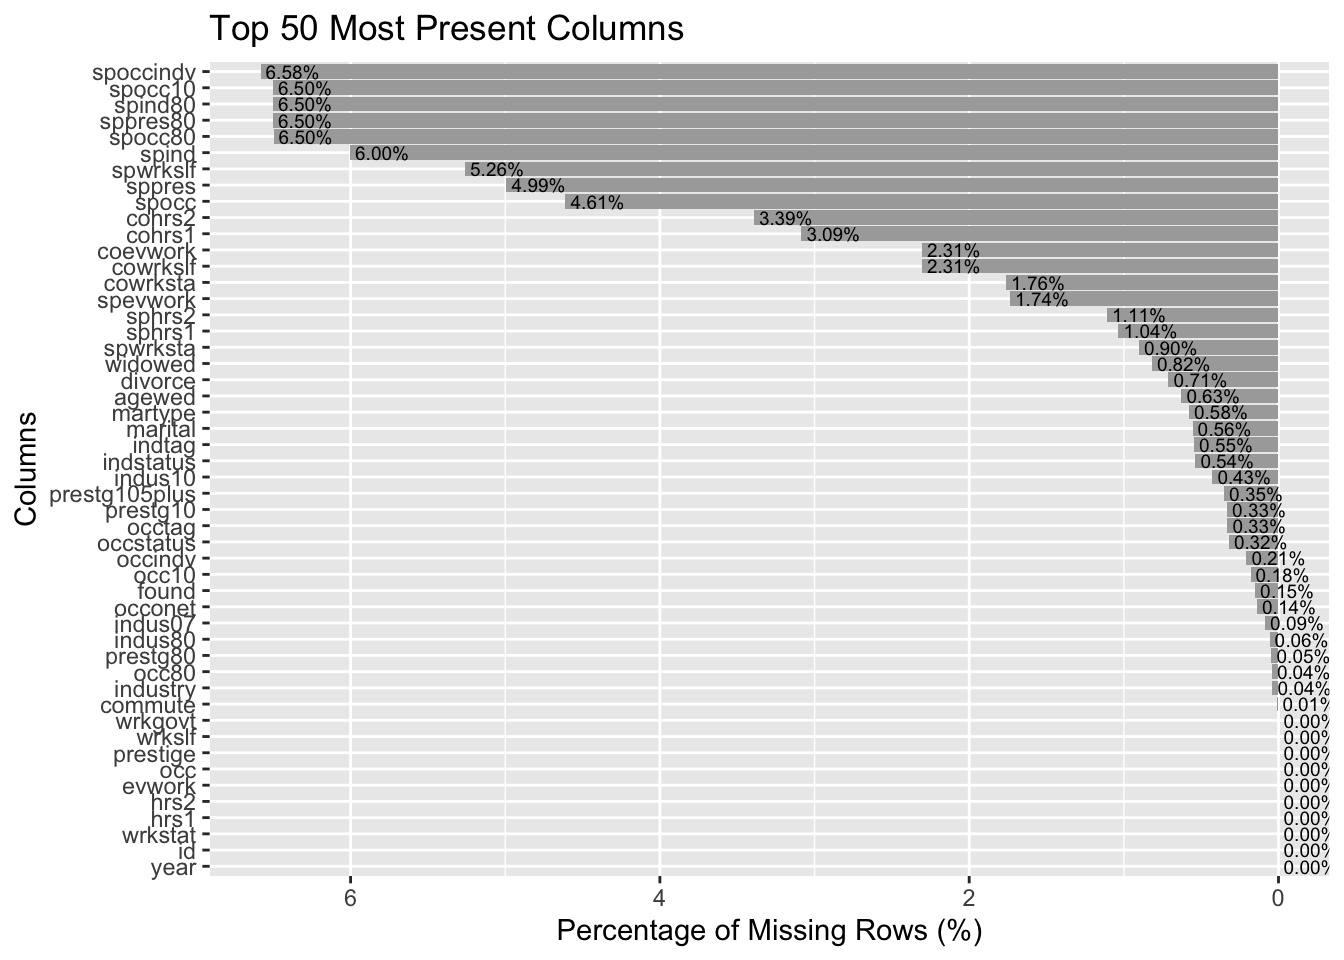
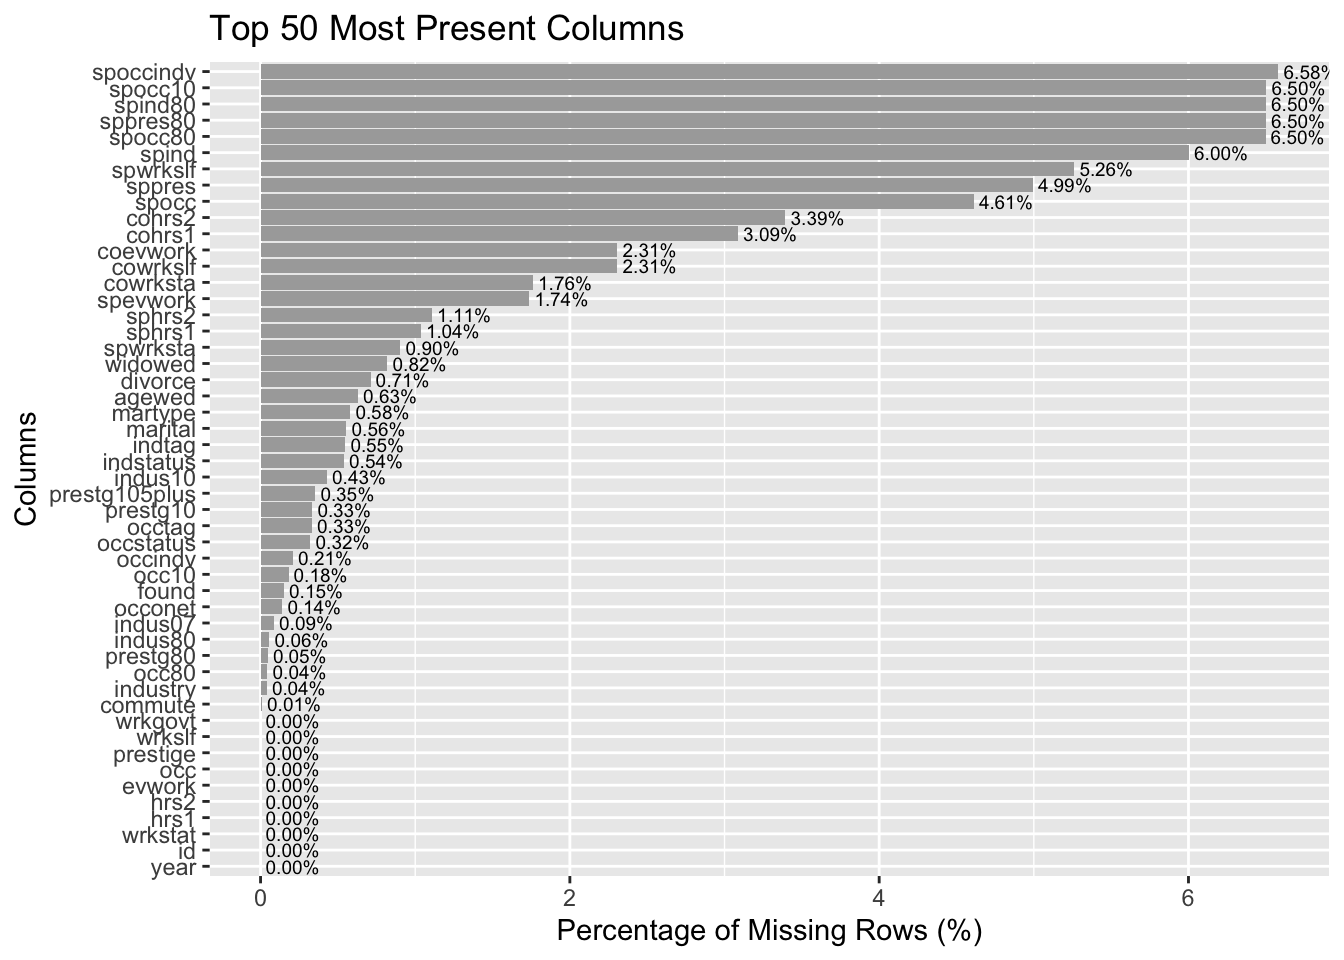
render book with latest

Changed region(s): [[0.1875, 0.0625, 1.0, 0.9375]]

diff --git a/docs/data.html b/docs/data.html
@@ -290,18 +290,17 @@ pre > code.sourceCode > span > a:first-child::before { text-decoration: underlin
 <span id="cb2-29"><a href="#cb2-29" aria-hidden="true" tabindex="-1"></a><span class="fu">ggplot</span>(top_50_present, <span class="fu">aes</span>(<span class="at">x =</span> column, <span class="at">y =</span> missing_percentage)) <span class="sc">+</span></span>
 <span id="cb2-30"><a href="#cb2-30" aria-hidden="true" tabindex="-1"></a>  <span class="fu">geom_bar</span>(<span class="at">stat =</span> <span class="st">"identity"</span>, <span class="at">fill =</span> <span class="st">"darkgrey"</span>) <span class="sc">+</span></span>
 <span id="cb2-31"><a href="#cb2-31" aria-hidden="true" tabindex="-1"></a>  <span class="fu">coord_flip</span>() <span class="sc">+</span></span>
-<span id="cb2-32"><a href="#cb2-32" aria-hidden="true" tabindex="-1"></a>  <span class="fu">scale_y_reverse</span>() <span class="sc">+</span></span>
-<span id="cb2-33"><a href="#cb2-33" aria-hidden="true" tabindex="-1"></a>  <span class="fu">labs</span>(</span>
-<span id="cb2-34"><a href="#cb2-34" aria-hidden="true" tabindex="-1"></a>    <span class="at">title =</span> <span class="st">'Top 50 Most Present Columns'</span>,</span>
-<span id="cb2-35"><a href="#cb2-35" aria-hidden="true" tabindex="-1"></a>    <span class="at">x =</span> <span class="st">"Columns"</span>,</span>
-<span id="cb2-36"><a href="#cb2-36" aria-hidden="true" tabindex="-1"></a>    <span class="at">y =</span> <span class="st">"Percentage of Missing Rows (%)"</span></span>
-<span id="cb2-37"><a href="#cb2-37" aria-hidden="true" tabindex="-1"></a>  ) <span class="sc">+</span></span>
-<span id="cb2-38"><a href="#cb2-38" aria-hidden="true" tabindex="-1"></a>  <span class="fu">geom_text</span>(</span>
-<span id="cb2-39"><a href="#cb2-39" aria-hidden="true" tabindex="-1"></a>    <span class="fu">aes</span>(<span class="at">label =</span> <span class="fu">sprintf</span>(<span class="st">"%.2f%%"</span>, missing_percentage)), </span>
-<span id="cb2-40"><a href="#cb2-40" aria-hidden="true" tabindex="-1"></a>    <span class="at">position =</span> <span class="fu">position_dodge</span>(<span class="at">width =</span> <span class="fl">0.9</span>),</span>
-<span id="cb2-41"><a href="#cb2-41" aria-hidden="true" tabindex="-1"></a>    <span class="at">hjust =</span> <span class="sc">-</span><span class="fl">0.1</span>,</span>
-<span id="cb2-42"><a href="#cb2-42" aria-hidden="true" tabindex="-1"></a>    <span class="at">size =</span> <span class="fl">2.5</span></span>
-<span id="cb2-43"><a href="#cb2-43" aria-hidden="true" tabindex="-1"></a>  )</span></code><button title="Copy to Clipboard" class="code-copy-button"><i class="bi"></i></button></pre></div>
+<span id="cb2-32"><a href="#cb2-32" aria-hidden="true" tabindex="-1"></a>  <span class="fu">labs</span>(</span>
+<span id="cb2-33"><a href="#cb2-33" aria-hidden="true" tabindex="-1"></a>    <span class="at">title =</span> <span class="st">'Top 50 Most Present Columns'</span>,</span>
+<span id="cb2-34"><a href="#cb2-34" aria-hidden="true" tabindex="-1"></a>    <span class="at">x =</span> <span class="st">"Columns"</span>,</span>
+<span id="cb2-35"><a href="#cb2-35" aria-hidden="true" tabindex="-1"></a>    <span class="at">y =</span> <span class="st">"Percentage of Missing Rows (%)"</span></span>
+<span id="cb2-36"><a href="#cb2-36" aria-hidden="true" tabindex="-1"></a>  ) <span class="sc">+</span></span>
+<span id="cb2-37"><a href="#cb2-37" aria-hidden="true" tabindex="-1"></a>  <span class="fu">geom_text</span>(</span>
+<span id="cb2-38"><a href="#cb2-38" aria-hidden="true" tabindex="-1"></a>    <span class="fu">aes</span>(<span class="at">label =</span> <span class="fu">sprintf</span>(<span class="st">"%.2f%%"</span>, missing_percentage)), </span>
+<span id="cb2-39"><a href="#cb2-39" aria-hidden="true" tabindex="-1"></a>    <span class="at">position =</span> <span class="fu">position_dodge</span>(<span class="at">width =</span> <span class="fl">0.9</span>),</span>
+<span id="cb2-40"><a href="#cb2-40" aria-hidden="true" tabindex="-1"></a>    <span class="at">hjust =</span> <span class="sc">-</span><span class="fl">0.1</span>,</span>
+<span id="cb2-41"><a href="#cb2-41" aria-hidden="true" tabindex="-1"></a>    <span class="at">size =</span> <span class="fl">2.5</span></span>
+<span id="cb2-42"><a href="#cb2-42" aria-hidden="true" tabindex="-1"></a>  )</span></code><button title="Copy to Clipboard" class="code-copy-button"><i class="bi"></i></button></pre></div>
 </details>
 <div class="cell-output-display">
 <div>
@@ -315,18 +314,17 @@ pre > code.sourceCode > span > a:first-child::before { text-decoration: underlin
 <div class="sourceCode cell-code" id="cb3"><pre class="sourceCode r code-with-copy"><code class="sourceCode r"><span id="cb3-1"><a href="#cb3-1" aria-hidden="true" tabindex="-1"></a><span class="fu">ggplot</span>(cp_df_2_sorted, <span class="fu">aes</span>(<span class="at">x =</span> column, <span class="at">y =</span> missing_percentage)) <span class="sc">+</span></span>
 <span id="cb3-2"><a href="#cb3-2" aria-hidden="true" tabindex="-1"></a>  <span class="fu">geom_bar</span>(<span class="at">stat =</span> <span class="st">"identity"</span>, <span class="at">fill =</span> <span class="st">"darkgrey"</span>) <span class="sc">+</span></span>
 <span id="cb3-3"><a href="#cb3-3" aria-hidden="true" tabindex="-1"></a>  <span class="fu">coord_flip</span>() <span class="sc">+</span></span>
-<span id="cb3-4"><a href="#cb3-4" aria-hidden="true" tabindex="-1"></a>  <span class="fu">scale_y_reverse</span>() <span class="sc">+</span></span>
-<span id="cb3-5"><a href="#cb3-5" aria-hidden="true" tabindex="-1"></a>  <span class="fu">labs</span>(</span>
-<span id="cb3-6"><a href="#cb3-6" aria-hidden="true" tabindex="-1"></a>    <span class="at">title =</span> <span class="st">'Variables of Interest %Missing'</span>,</span>
-<span id="cb3-7"><a href="#cb3-7" aria-hidden="true" tabindex="-1"></a>    <span class="at">x =</span> <span class="st">"Columns"</span>,</span>
-<span id="cb3-8"><a href="#cb3-8" aria-hidden="true" tabindex="-1"></a>    <span class="at">y =</span> <span class="st">"Percentage of Missing Rows (%)"</span></span>
-<span id="cb3-9"><a href="#cb3-9" aria-hidden="true" tabindex="-1"></a>  ) <span class="sc">+</span></span>
-<span id="cb3-10"><a href="#cb3-10" aria-hidden="true" tabindex="-1"></a>  <span class="fu">geom_text</span>(</span>
-<span id="cb3-11"><a href="#cb3-11" aria-hidden="true" tabindex="-1"></a>    <span class="fu">aes</span>(<span class="at">label =</span> <span class="fu">sprintf</span>(<span class="st">"%.2f%%"</span>, missing_percentage)), </span>
-<span id="cb3-12"><a href="#cb3-12" aria-hidden="true" tabindex="-1"></a>    <span class="at">position =</span> <span class="fu">position_dodge</span>(<span class="at">width =</span> <span class="fl">0.9</span>),</span>
-<span id="cb3-13"><a href="#cb3-13" aria-hidden="true" tabindex="-1"></a>    <span class="at">hjust =</span> <span class="sc">-</span><span class="fl">0.1</span>,</span>
-<span id="cb3-14"><a href="#cb3-14" aria-hidden="true" tabindex="-1"></a>    <span class="at">size =</span> <span class="fl">2.5</span></span>
-<span id="cb3-15"><a href="#cb3-15" aria-hidden="true" tabindex="-1"></a>  )</span></code><button title="Copy to Clipboard" class="code-copy-button"><i class="bi"></i></button></pre></div>
+<span id="cb3-4"><a href="#cb3-4" aria-hidden="true" tabindex="-1"></a>  <span class="fu">labs</span>(</span>
+<span id="cb3-5"><a href="#cb3-5" aria-hidden="true" tabindex="-1"></a>    <span class="at">title =</span> <span class="st">'Variables of Interest %Missing'</span>,</span>
+<span id="cb3-6"><a href="#cb3-6" aria-hidden="true" tabindex="-1"></a>    <span class="at">x =</span> <span class="st">"Columns"</span>,</span>
+<span id="cb3-7"><a href="#cb3-7" aria-hidden="true" tabindex="-1"></a>    <span class="at">y =</span> <span class="st">"Percentage of Missing Rows (%)"</span></span>
+<span id="cb3-8"><a href="#cb3-8" aria-hidden="true" tabindex="-1"></a>  ) <span class="sc">+</span></span>
+<span id="cb3-9"><a href="#cb3-9" aria-hidden="true" tabindex="-1"></a>  <span class="fu">geom_text</span>(</span>
+<span id="cb3-10"><a href="#cb3-10" aria-hidden="true" tabindex="-1"></a>    <span class="fu">aes</span>(<span class="at">label =</span> <span class="fu">sprintf</span>(<span class="st">"%.2f%%"</span>, missing_percentage)), </span>
+<span id="cb3-11"><a href="#cb3-11" aria-hidden="true" tabindex="-1"></a>    <span class="at">position =</span> <span class="fu">position_dodge</span>(<span class="at">width =</span> <span class="fl">0.9</span>),</span>
+<span id="cb3-12"><a href="#cb3-12" aria-hidden="true" tabindex="-1"></a>    <span class="at">hjust =</span> <span class="sc">-</span><span class="fl">0.1</span>,</span>
+<span id="cb3-13"><a href="#cb3-13" aria-hidden="true" tabindex="-1"></a>    <span class="at">size =</span> <span class="fl">2.5</span></span>
+<span id="cb3-14"><a href="#cb3-14" aria-hidden="true" tabindex="-1"></a>  )</span></code><button title="Copy to Clipboard" class="code-copy-button"><i class="bi"></i></button></pre></div>
 </details>
 <div class="cell-output-display">
 <div>
